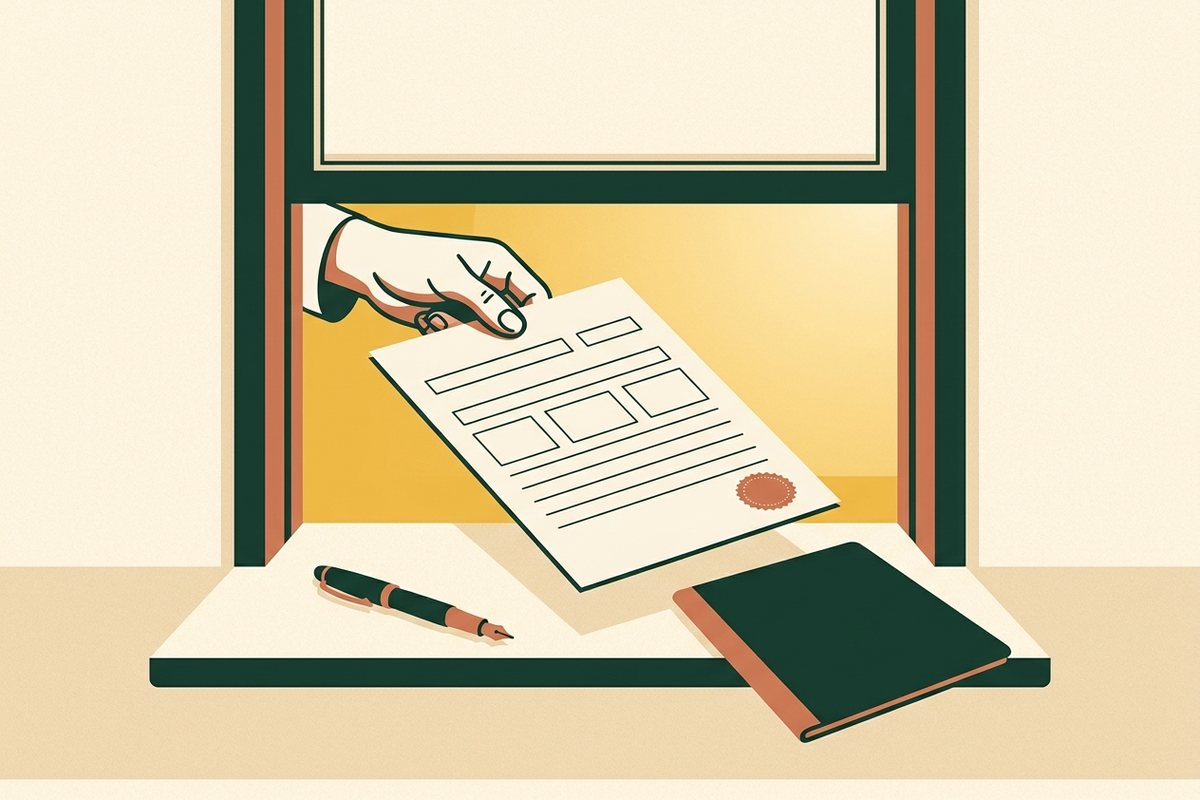
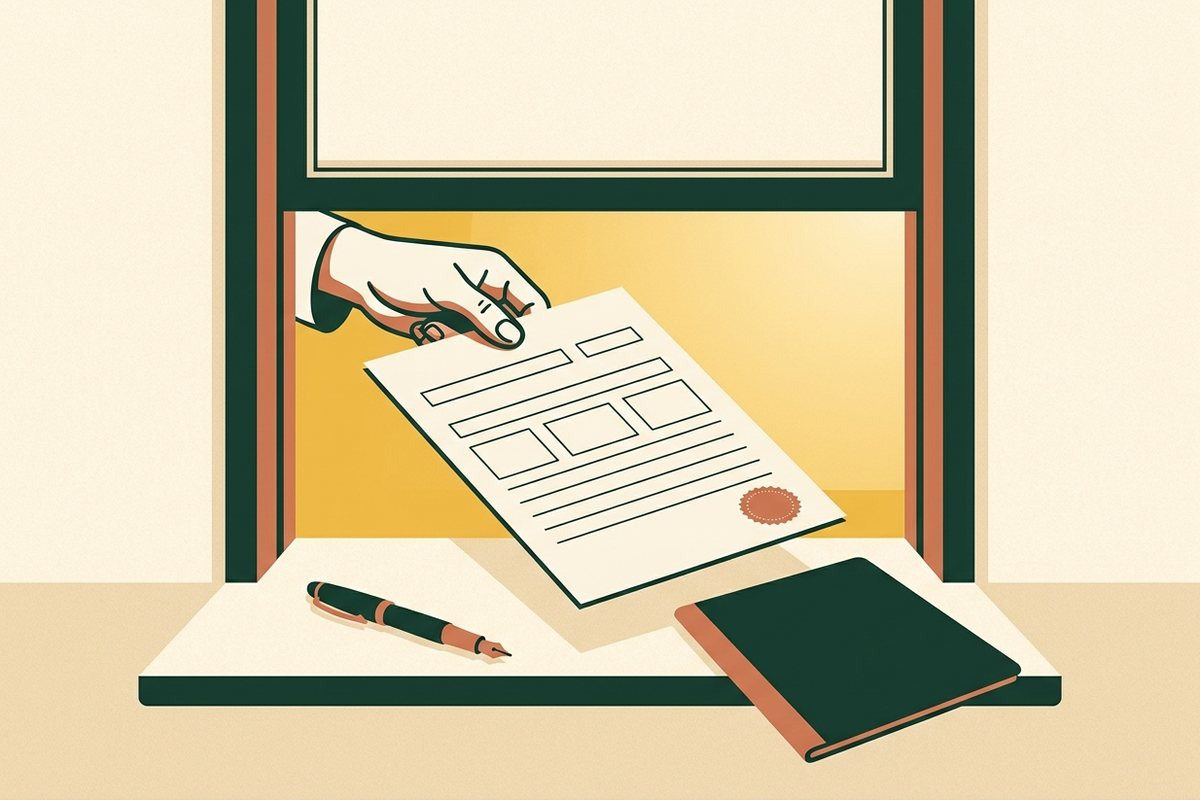
feat(articles): 新增《同一人声明公证》；配图脚本补边带自动裁切
第 11 篇。复核记录（本人独立打开原文核对）：
- Penal Code §126 伪证罪刑期"two, three or four years" —— 逐字属实
- Family Code §306.5 结婚证书核证副本即为改名合法证明 —— 逐字属实

配图脚本按 article-illustrations 的要求补上此前漏做的一步：成图前
自动裁掉模型留下的近乎纯色边带。全量扫描 36 张配图，此前只有
china-power-of-attorney/02 存在真实边框（底部淡色带与桌面之间有
明显阶跃），已重建。

同时修掉自己引入的一个 bug：裁掉边带后图可能比目标 3:2 更扁，
build_section 仍按高度裁会越界，PIL 补边而非缩放，在图底造出一条
纯黑像素带。改为按宽高比决定裁哪一维。现 36 张全部零边框。

Changed region(s): [[0.0, 0.0, 1.0, 1.0]]

diff --git a/src/content/articles/same-person-affidavit.md b/src/content/articles/same-person-affidavit.md
@@ -1,0 +1,143 @@
+---
+title: 同一人声明公证：中文名、拼音名、英文名对不上怎么办
+description: 国内机构要你证明"身份证上的张建国、护照上的 ZHANG JIANGUO、文件上的 John Zhang 是同一个人"。这份同一人声明是你自己在伪证责任下作出的宣誓声明，加州公证员办的是 jurat——主持宣誓、见证签署，而不核实你说的是否属实。这个区别，决定了这份文件该怎么写。
+pubDate: 2026-08-28
+category: china-use
+topicId: 11
+cover: /images/articles/same-person-affidavit/og.jpg
+coverAlt: 插图：一本翻开的护照、一张证件卡与一份带印记的证书叠放在一起，几条细线绕过它们汇向同一个点
+---
+
+国内不动产登记中心把材料退了回来，理由很简单：房产证上写的是"张建国"，委托书上签的是"John Zhang"，护照资料页印的是"ZHANG JIANGUO"。三个名字，一个人，但柜台看不出来。于是电话打到美国："你去做个'同一人声明'公证，证明这几个名字是同一个人。"
+
+这句话里藏着一个误解。美国这一端的公证员，并不会证明"这几个名字属于同一个人"。真正作出这个保证的是你自己，而且是在法律责任之下作出的。搞清楚这一点，这份文件该怎么写、写到什么程度，答案就出来了。
+
+## 什么情况下会被要求"同一人声明"
+
+![插图：四份不同的证件摊开成弧形，每一份的姓名栏都是一条空白横线，细线从各份证件汇聚到中间的同一个点](/images/articles/same-person-affidavit/01-many-names.jpg)
+
+"同一人声明"（One and the Same Person Affidavit，也写作 Affidavit of One and the Same Person）通常是国内受理机关在材料对不上时提出的要求：请你用一份书面声明，把几个不同写法的姓名，串成同一个人。它在加州这一端并不构成一种独立的公证种类——公证员替你办的，仍然是一份宣誓书的公证（下一节会讲清楚这意味着什么）。
+
+触发它的场景，翻来覆去就是这么几类：
+
+- **拼音名与英文名**。护照资料页上是 ZHANG JIANGUO，日常在美国用的是 John Zhang，银行账户、学历证书、房产文件上署的又是英文名。
+- **姓名顺序**。中国证件姓在前，美国证件名在前；有的表格把 given name 和 surname 填反了，从此两份文件"看上去是两个人"。
+- **婚后改姓**。在美国随夫姓，中国证件上仍是婚前姓名。
+- **曾用名**。小时候改过名、上学时用的是另一个名字、户口本上的名字与出国时的护照对不上。
+- **中间名**。入籍后加了中间名，或者把原来的名字整体挪到了中间名的位置。
+- **旧式拼写**。早年出境的证件上，姓氏可能拼作 Chang、Cheung、Lee，与今天护照上的汉语拼音 Zhang、Li 对不上。
+- **汉字与拉丁字母各说各话**。国内的房产证、存折、学籍档案上是汉字，美国的文件上只有拉丁字母，两边没有任何一处字面重合。
+
+有一件事必须先说在前面：这类材料在国内怎么处理、要什么格式，不动产登记中心、银行、社保经办机构、学校档案室的口径并不统一，同一家单位不同窗口也可能给出不同答复。所以第一步不是找公证员，而是问清楚受理你材料的那个机构——他们要的是一份什么样的声明、有没有现成模板、要几份、要不要中英文对照。中国驻旧金山总领馆在自己的公证须知里也是这么要求的：[申请人须按国内文书使用机构要求，准备好委托书或声明书等文本](#ref-sf-notary)。
+
+拿到对方的模板，后面每一步都会轻松很多；拿不到模板，至少要一份书面说明——哪怕是微信里的一段文字。
+
+## 这份文件，是谁在替什么担保
+
+![插图：一条细线把画面分成两半，左边是举起宣誓的手与一叠正文为空白横线的文件，右边是文件最后一页、别着回形针的另附纸页、一枚封蜡印记和一只橡皮印章](/images/articles/same-person-affidavit/02-who-vouches.jpg)
+
+这是全篇最要紧的一节。
+
+同一人声明在形式上是一份**宣誓书**（affidavit）：一段由你本人作出、并宣誓其属实的书面陈述。公证员在这份文件上办的是**宣誓书公证**（jurat）——主持宣誓、核验身份、见证你当场签署。（acknowledgment 与 jurat 的区别，[另一篇文章](/articles/acknowledgment-vs-jurat/)已经讲透，这里不重复。）
+
+[《加州政府法典》第 8202 条](#ref-gov-8202)把 jurat 的动作写得很短：公证员须[向宣誓人主持宣誓或郑重确认](#ref-gov-8202)，依《民法典》第 1185 条核验其身份，并且——[宣誓人须在公证员面前签署该文件](#ref-gov-8202)。
+
+这三件事里，没有哪一件是"核实文件里说的对不对"。恰恰相反，同一条法律要求 jurat 证词的顶端印着一个方框，框里写的是：[公证员仅核验签署该文件之个人的身份，而不核验该文件的真实性、准确性或有效性](#ref-gov-8202)（签名确认证词里的这句话[一字不差](#ref-civ-1189)）。加州州务卿的《Notary Public Handbook》说得更直白：公证员的[职能只关乎签名，与文件内容无关](#ref-handbook)。
+
+那么"张建国就是 John Zhang"这句话，究竟谁在担保？
+
+**你自己。**公证员会当场向你提问，手册给的示范措辞是["Do you swear or affirm that the statements in this document are true?"](#ref-handbook)（你是否宣誓或郑重确认，本文件中的陈述属实？）——手册还注明，宣誓时双方[传统上各举右手，但这不是法律要求](#ref-handbook)。你答"是"的那一刻起，这份声明的真实性由你承担。
+
+承担到什么程度？[《加州刑法典》第 118 条](#ref-pen-118)对伪证罪的定义是：宣誓之后，[明知不实而将重大事项陈述为真](#ref-pen-118)，即构成伪证；同一条还写明，无论该陈述是[在加州境内还是境外作出或签署](#ref-pen-118)，本款一律适用。[第 126 条](#ref-pen-126)给出后果：[伪证罪处二年、三年或四年监禁](#ref-pen-126)。刑期以年计，不是罚款了事的小事。
+
+把这层关系想明白，几种常见的糊涂做法自然就该放弃：
+
+- **不要把没把握的话写进去。**比如"本人除上述姓名外从未使用过其他姓名"——如果你自己都记不清小学学籍上写的是哪个名字，就别写这种绝对句。改成如实列举你确知的姓名版本，并写明各自出现在哪份证件上。
+- **不要指望公证员替你核对。**他不会翻你的旧护照去比对，也不会因为"看过你的绿卡"而为你的陈述背书。他核验的只是**到场这个人**的身份：[《民法典》第 1185 条](#ref-civ-1185)要求公证员取得充分身份证明，确认到场者[就是文件中所载并签署该文件的那个人](#ref-civ-1185)。
+- **不要请公证员帮你"写得像一点"。**措辞、格式、某一句写不写，都属于文件内容。州务卿手册把[准备、起草、选择或确定任何法律文件的种类，或就法律文件或事项提供意见](#ref-handbook)列为构成执业法律的行为，公证员应当拒绝并转介律师。
+
+这份声明的分量，来自它是你在伪证责任下作出的保证；它的软肋也在同一处——它终究是你的自述。所以接下来要谈的，是怎么把它写得足够具体，让接收方愿意相信。
+
+## 姓名版本列得够细，比写得漂亮有用
+
+![插图：桌面上摊开一张分成三行三列的表格纸，每行左侧是护照、卡片、证书的小图标，其余格子是空白横线，后面用夹子夹着几页复印件，一支钢笔斜放在纸角](/images/articles/same-person-affidavit/03-name-table.jpg)
+
+一份好用的同一人声明，正文往往很朴素：一段交代身份，一份姓名清单，一句"以上均系本人"。决定它好不好用的，是清单列得够不够细。
+
+**逐个姓名列，每个都配上出处。**至少写清三样：这个姓名的完整写法（照证件原样抄，包括全大写、逗号、中间名缩写、有没有空格）、它出现在哪一份证件或文件上（证件种类、签发机关、证件号码后几位）、以及使用的时间段或场景。
+
+结构上大致是这样（内容按你自己的实际情况填）：
+
+| 姓名写法 | 出现于 | 说明 |
+| --- | --- | --- |
+| 张建国 | 中国居民身份证、国内房产证 | 出生登记姓名 |
+| ZHANG JIANGUO | 中国护照资料页 | 汉语拼音转写 |
+| John Jianguo Zhang | 美国护照、加州驾照 | 归化后使用的姓名 |
+
+**照抄，不要顺手改。**证件上是 ZHANG JIANGUO，就别写成 Zhang Jianguo；护照上没有中间名，就别自己补一个。国内受理机关做的是字面比对，任何一处不一致，都可能让这份声明本身也变成"对不上"的材料。
+
+**附证件复印件时，注意三点。**
+
+第一，**复印件本身不能拿去公证**。加州公证员能核证的复印件只有授权委托书副本一种，其余一概不行——法律依据见[讲公证员职权边界的那一篇](/articles/what-notaries-cannot-do/)。所以复印件是**你作为附件附在声明后面**、并在正文里点名的（例如"附件一：本人中国护照资料页复印件"），不是拿去盖章的。
+
+第二，**把附件写进正文并编号**，注明总页数。声明里写明"附件共 3 页"，装订好一起寄出，接收方才好核对是否齐全。
+
+第三，**复印要清晰**：姓名栏、证件号、有效期都要看得清；护照建议资料页与本人签名页一起复印。
+
+**别提前签字。**jurat 要求你[在公证员面前签署](#ref-gov-8202)，所以带去现场的应该是签名栏留白的文件。中国驻旧金山总领馆办理领事公证时也是同一条规矩：文本[不可事先签名及填写日期](#ref-sf-notary)。
+
+**留意一条容易踩到的规定。**如果这份声明本身是用来证明你身份的文件，正文里写了出生日期或年龄，还贴了照片或按了指纹，那么[《加州政府法典》第 8230 条](#ref-gov-8230)要求公证员把一件事作为办理 jurat 的前提：请你出示凭据，[核对声明中所载的出生日期或年龄](#ref-gov-8230)。这一条认的凭据只有两种——出生证明的核证副本，或者加州车辆管理局（DMV）签发的驾照或身份证；中国护照不在其列。国内的模板有时正好要求贴照片、填出生日期，遇到这种，出门前把 DMV 证件一并带上，免得白跑。
+
+**语言。**国内要中英文对照的，可以做成双语文本；但公证证词那一段必须是英文——加州州务卿的说明是：[只要公证部分是英文，就可以签发附加证明书，文件其余部分可以是任何其他语言](#ref-sos-faq)。
+
+## 公证只是半程：还要办附加证明书
+
+一份只盖了加州公证章的声明，寄回国内多半用不了。要让中国的机构认，还得请加州州务卿签发**附加证明书**（Apostille）：州务卿[对加州公职人员在拟送往美国境外使用的文件上的签名进行认证](#ref-sos-apostille)。怎么寄、多少钱、封面页怎么填，[讲授权委托书那篇](/articles/china-power-of-attorney/)已经写全，这里不重复。
+
+只强调两件与本文主题直接相关的事。
+
+**这一步同样不担保内容。**州务卿自己的问答里写着：[附加证明书不核实文件的内容](#ref-sos-faq)。所以整条链上——公证员、州务卿——没有任何一方在替"这几个名字属于同一个人"背书。从头到尾，担保人只有你。
+
+**办妥不等于一定被接受。**中国驻旧金山总领馆的通知里有一句提醒很实在：[办妥美国附加证明书不代表该公文书必然被中国用文单位接受](#ref-sf-notice)，并[建议事先向中国用文单位了解其对格式、内容、时限、翻译等的具体要求](#ref-sf-notice)。这句话对同一人声明尤其适用——格式和内容的标准，握在对方手里。
+
+## 有时候，你需要的不是一份声明
+
+在花钱办这份文件之前，值得先花十分钟想一想：能不能让**一份官方证件本身**同时载明两个名字？如果能，它通常比一份自述声明更容易被接受。
+
+**中国护照上的姓名加注。**中国驻旧金山总领馆办理["普通护照/旅行证姓名加注"](#ref-sf-passport)，适用于[有正当合理合法理由需要在护照或旅行证上加注姓名的人员](#ref-sf-passport)，需提交[出生证、结婚证、居留证等涉及加注姓名，且在当地具有法律效力的文件](#ref-sf-passport)。如果你持中国护照，又因为结婚或改名多出了另一个姓名，先问一句能不能加注——加注印在护照上，本身就是一份官方证件对两个名字的连接。能不能加、加什么，以总领馆的答复为准。
+
+**婚后改姓。**在加州，结婚时就可以在结婚证申请表上直接选定婚后使用的中名或姓氏。[《加州家庭法典》第 306.5 条](#ref-fam-306-5)允许[婚姻一方或双方选择变更中名或姓氏](#ref-fam-306-5)，并规定[载有新姓名的结婚证书核证副本，即构成使用该新姓名合法的证明](#ref-fam-306-5)。也就是说，改姓这件事，一份结婚证书核证副本往往就说明白了。
+
+**在美国正式改过名。**加州法院的官方自助指南写得很清楚：[向法院提交文件可以合法改名](#ref-courts-name-change)，法官同意后会出具载明新姓名的法院命令，[你需要用这份命令去更新驾照、护照、社安卡等身份文件](#ref-courts-name-change)。一份法院命令在很多场合比自述声明有力。但要算好时间和成本：[申请费 435 至 450 美元](#ref-courts-name-change)、须[在报纸上刊登一个月](#ref-courts-name-change)、法官[约两到三个月](#ref-courts-name-change)作出决定——急着用的事等不了它。
+
+这三条不是互相替代，而是排查顺序：先看有没有现成的官方文件能说明问题，实在没有，再用声明书把话讲清楚。
+
+## 去公证之前，把这几件事办好
+
+1. **拿到接收方的要求**。模板、份数、要不要中英文、要不要贴照片、有没有时效限制——问清楚再动笔。
+2. **列全姓名版本，逐字核对拼写**。照证件抄，别凭记忆。
+3. **准备附件**。复印清晰、编号、写进正文、注明页数。
+4. **签名栏留白**。jurat 必须当场签，提前签了通常只能重打一份。
+5. **带齐证件**。[《民法典》第 1185 条](#ref-civ-1185)列明的可接受证件包括加州驾照或身份证、美国护照，以及本国有效护照——持中国护照可以办。若声明里含出生日期加照片或指纹，按第 8230 条再带上 DMV 证件或出生证明核证副本。
+6. **想好附加证明书那一步**。封面页的使用国别填 China，需要几份就办几份。
+
+最后说明一句：本文讲的是这份文件在美国这一端的办理规则，不构成法律意见。声明里写什么、怎么写、能不能满足国内那家机构的要求，得由你和接收方（必要时再加上律师）来定。公证员能做的，是在你把话写好之后，主持你的宣誓、看着你签字，并如实记下这件事发生的时间、地点与身份核验方式。
+
+## 参考来源
+
+以下来源均于引用当日打开核对；条目中的"查证于"日期为实际核对日期，可点击的日期指向互联网档案馆（Wayback Machine）当时的存档快照。
+
+- <span id="ref-gov-8202"></span>加州《政府法典》第 8202 条（jurat 的法定要求与格式）— [leginfo 法条原文](https://leginfo.legislature.ca.gov/faces/codes_displaySection.xhtml?lawCode=GOV&sectionNum=8202#:~:text=The%20affiant%20shall%20sign%20the%20document%20in%20the%20presence%20of%20the%20notary)。第 (a) 款："When executing a jurat, a notary shall [administer an oath or affirmation to the affiant](https://leginfo.legislature.ca.gov/faces/codes_displaySection.xhtml?lawCode=GOV&sectionNum=8202#:~:text=administer%20an%20oath%20or%20affirmation%20to%20the%20affiant) and shall determine, from satisfactory evidence as described in Section 1185 of the Civil Code, that the affiant is the person executing the document. The affiant shall sign the document in the presence of the notary."；第 (b) 款方框提示："A notary public or other officer completing this certificate verifies only the identity of the individual who signed the document to which this certificate is attached, and [not the truthfulness, accuracy, or validity of that document](https://leginfo.legislature.ca.gov/faces/codes_displaySection.xhtml?lawCode=GOV&sectionNum=8202#:~:text=not%20the%20truthfulness%2C%20accuracy%2C%20or%20validity%20of%20that%20document)."；第 (d) 款法定格式以 "Subscribed and sworn to (or affirmed) before me" 开头。 — 查证于 [2026-08-28](https://web.archive.org/web/20260214102928/https://leginfo.legislature.ca.gov/faces/codes_displaySection.xhtml?lawCode=GOV&sectionNum=8202)
+- <span id="ref-civ-1189"></span>加州《民法典》第 1189 条（签名确认证词法定格式）— [leginfo 法条原文](https://leginfo.legislature.ca.gov/faces/codes_displaySection.xhtml?lawCode=CIV&sectionNum=1189#:~:text=verifies%20only%20the%20identity%20of%20the%20individual%20who%20signed%20the%20document%20to%20which%20this%20certificate%20is%20attached)。第 (a)(1) 款要求证词顶端方框内载明的文字，与《政府法典》第 8202 条第 (b) 款完全相同："A notary public or other officer completing this certificate verifies only the identity of the individual who signed the document to which this certificate is attached, and not the truthfulness, accuracy, or validity of that document." — 查证于 [2026-08-28](https://web.archive.org/web/20260214013704/https://leginfo.legislature.ca.gov/faces/codes_displaySection.xhtml?lawCode=CIV&sectionNum=1189)
+- <span id="ref-civ-1185"></span>加州《民法典》第 1185 条（身份核验与可接受证件）— [leginfo 法条原文](https://leginfo.legislature.ca.gov/faces/codes_displaySection.xhtml?lawCode=CIV&sectionNum=1185#:~:text=The%20acknowledgment%20of%20an%20instrument%20shall%20not%20be%20taken%20unless)。第 (a) 款："The acknowledgment of an instrument shall not be taken unless the officer taking it has satisfactory evidence that the person making the acknowledgment [is the individual who is described in and who executed the instrument](https://leginfo.legislature.ca.gov/faces/codes_displaySection.xhtml?lawCode=CIV&sectionNum=1185#:~:text=is%20the%20individual%20who%20is%20described%20in%20and%20who%20executed%20the%20instrument)."；第 (b)(3)、(b)(4) 款以 "any one of the following" 形式逐项列举可接受证件，含加州 DMV 驾照或身份证、美国护照，以及"[a valid passport from the applicant's country of citizenship](https://leginfo.legislature.ca.gov/faces/codes_displaySection.xhtml?lawCode=CIV&sectionNum=1185#:~:text=or%20a%20valid%20passport%20from%20the%20applicant)"。 — 查证于 [2026-08-28](https://web.archive.org/web/20251206062031/https://leginfo.legislature.ca.gov/faces/codes_displaySection.xhtml?lawCode=CIV&sectionNum=1185)
+- <span id="ref-pen-118"></span>加州《刑法典》第 118 条（伪证罪的定义）— [leginfo 法条原文](https://leginfo.legislature.ca.gov/faces/codes_displaySection.xhtml?lawCode=PEN&sectionNum=118#:~:text=states%20as%20true%20any%20material%20matter%20which%20he%20or%20she%20knows%20to%20be%20false)。第 (a) 款："Every person who, having taken an oath that he or she will testify, declare, depose, or certify truly… willfully and contrary to the oath, states as true any material matter which he or she knows to be false… is guilty of perjury."；同款末句："This subdivision is applicable whether the statement, or the testimony, declaration, deposition, or certification is [made or subscribed within or without the State of California](https://leginfo.legislature.ca.gov/faces/codes_displaySection.xhtml?lawCode=PEN&sectionNum=118#:~:text=made%20or%20subscribed%20within%20or%20without%20the%20State%20of%20California)." — 查证于 [2026-08-28](https://web.archive.org/web/20251218131453/https://leginfo.legislature.ca.gov/faces/codes_displaySection.xhtml?lawCode=PEN&sectionNum=118)
+- <span id="ref-pen-126"></span>加州《刑法典》第 126 条（伪证罪的刑罚）— [leginfo 法条原文](https://leginfo.legislature.ca.gov/faces/codes_displaySection.xhtml?lawCode=PEN&sectionNum=126#:~:text=Perjury%20is%20punishable%20by%20imprisonment)。全文："Perjury is punishable by imprisonment pursuant to subdivision (h) of Section 1170 for [two, three or four years](https://leginfo.legislature.ca.gov/faces/codes_displaySection.xhtml?lawCode=PEN&sectionNum=126#:~:text=two%2C%20three%20or%20four%20years)." — 查证于 [2026-08-28](https://web.archive.org/web/20251215210511/https://leginfo.legislature.ca.gov/faces/codes_displaySection.xhtml?sectionNum=126&lawCode=PEN)
+- <span id="ref-gov-8230"></span>加州《政府法典》第 8230 条（宣誓人身份文件中的出生日期核对）— [leginfo 法条原文](https://leginfo.legislature.ca.gov/faces/codes_displaySection.xhtml?lawCode=GOV&sectionNum=8230#:~:text=purporting%20to%20identify%20the%20affiant)。全文首句："If a notary public executes a jurat and the statement sworn or subscribed to is contained in a document purporting to identify the affiant, and includes the birthdate or age of the person and a purported photograph or finger or thumbprint of the person so swearing or subscribing, the notary public shall require, as a condition to executing the jurat, that the person [verify the birthdate or age contained in the statement](https://leginfo.legislature.ca.gov/faces/codes_displaySection.xhtml?lawCode=GOV&sectionNum=8230#:~:text=verify%20the%20birthdate%20or%20age%20contained%20in%20the%20statement) by showing either:"；随后列出 "(a) A certified copy of the person's birth certificate, or (b) An identification card or driver's license issued by the Department of Motor Vehicles." — 查证于 [2026-08-28](https://web.archive.org/web/20251208123339/https://leginfo.legislature.ca.gov/faces/codes_displaySection.xhtml?sectionNum=8230&lawCode=GOV)
+- <span id="ref-handbook"></span>加州州务卿《Notary Public Handbook》2026 年版（2026 年 1 月）— [PDF 全文](https://notary.cdn.sos.ca.gov/forms/notary-handbook-current.pdf)（[各年度版本索引页](https://www.sos.ca.gov/notary/handbook)）。第 8 页 "Acts Constituting the Practice of Law"："Among the acts which constitute the practice of law are the preparation, drafting, or selection or determination of the kind of any legal document, or giving advice in relation to any legal documents or matters. If asked to perform such tasks, a California notary public should decline and refer the requester to an attorney."；第 14 页 jurat 一节的脚注："There is no prescribed wording for the oath, but an acceptable oath would be 'Do you swear or affirm that the statements in this document are true?' When administering the oath, the signer and notary public traditionally each raise their right hand, but this is not a legal requirement."；第 23 页 "Foreign Language" 一节："A notary public can notarize a signature on a document in a foreign language with which the notary public is not familiar, since a notary public's function only relates to the signature and not the content of the document."；同页："An interpreter should not be used, as vital information could be lost in the translation." — 查证于 [2026-08-28](https://web.archive.org/web/20260806194157/https://notary.cdn.sos.ca.gov/forms/notary-handbook-current.pdf)
+- <span id="ref-sos-apostille"></span>加州州务卿 — [Request an Apostille 官方办理页](https://www.sos.ca.gov/notary/request-apostille#:~:text=provides%20an%20Apostille%20to%20authenticate%20California%20public%20officials)。支持句："The California Secretary of State provides an Apostille to authenticate California public officials' signatures on documents to be used outside the United States of America."；另有 "The document must be signed by a California public official or be an original notarized and/or certified document. [A photocopy is not acceptable.](https://www.sos.ca.gov/notary/request-apostille#:~:text=A%20photocopy%20is%20not%20acceptable)" 与 "A cover sheet [stating the country in which the document will be used is required](https://www.sos.ca.gov/notary/request-apostille#:~:text=stating%20the%20country%20in%20which%20the%20document%20will%20be%20used%20is%20required)."。 — 查证于 [2026-08-28](https://web.archive.org/web/20260606205228/https://www.sos.ca.gov/notary/request-apostille)
+- <span id="ref-sos-faq"></span>加州州务卿 — [Apostille Frequently Asked Questions](https://www.sos.ca.gov/notary/apostille-faqs#:~:text=validate%20the%20contents%20of%20the%20document)。支持句：第 1 问 "The Apostille does not validate the contents of the document."；第 10 问 "[If the notarization of the document is in English, the California Secretary of State can issue an Apostille. The rest of the document can be in any other language.](https://www.sos.ca.gov/notary/apostille-faqs#:~:text=If%20the%20notarization%20of%20the%20document%20is%20in%20English%2C%20the%20California%20Secretary%20of%20State%20can%20issue%20an%20Apostille.%20The%20rest%20of%20the%20document%20can%20be%20in%20any%20other%20language.)" — 查证于 [2026-08-28](https://web.archive.org/web/20260611010913/https://www.sos.ca.gov/notary/apostille-faqs)
+- <span id="ref-sf-notice"></span>中国驻旧金山总领馆 — [《关于中国加入〈取消外国公文书认证要求的公约〉后驻美使领馆停办领事认证业务的通知》](https://sanfrancisco.china-consulate.gov.cn/chn/zytz/202310/t20231025_11167637.htm#:~:text=%E5%8A%9E%E5%A6%A5%E7%BE%8E%E5%9B%BD%E9%99%84%E5%8A%A0%E8%AF%81%E6%98%8E%E4%B9%A6%E4%B8%8D%E4%BB%A3%E8%A1%A8%E8%AF%A5%E5%85%AC%E6%96%87%E4%B9%A6%E5%BF%85%E7%84%B6%E8%A2%AB%E4%B8%AD%E5%9B%BD%E7%94%A8%E6%96%87%E5%8D%95%E4%BD%8D%E6%8E%A5%E5%8F%97)（2023 年 10 月 24 日发布）。支持句："美国签发的《公约》范围内的公文书只需办理美国附加证明书（Apostille）即可送往中国内地使用"；"办妥美国附加证明书不代表该公文书必然被中国用文单位接受。[建议您事先向中国用文单位了解其对外国公文书的格式、内容、时限、翻译等具体要求](https://sanfrancisco.china-consulate.gov.cn/chn/zytz/202310/t20231025_11167637.htm#:~:text=%E5%BB%BA%E8%AE%AE%E6%82%A8%E4%BA%8B%E5%85%88%E5%90%91%E4%B8%AD%E5%9B%BD%E7%94%A8%E6%96%87%E5%8D%95%E4%BD%8D%E4%BA%86%E8%A7%A3%E5%85%B6%E5%AF%B9%E5%A4%96%E5%9B%BD%E5%85%AC%E6%96%87%E4%B9%A6%E7%9A%84%E6%A0%BC%E5%BC%8F%E3%80%81%E5%86%85%E5%AE%B9%E3%80%81%E6%97%B6%E9%99%90%E3%80%81%E7%BF%BB%E8%AF%91%E7%AD%89%E5%85%B7%E4%BD%93%E8%A6%81%E6%B1%82)后再办理有关手续。" — 查证于 [2026-08-28](https://web.archive.org/web/20260828052601/https://sanfrancisco.china-consulate.gov.cn/chn/zytz/202310/t20231025_11167637.htm)
+- <span id="ref-sf-notary"></span>中国驻旧金山总领馆 — [《申办公证须知（2025 年 10 月更新）》](https://sanfrancisco.china-consulate.gov.cn/lsfw/qianzhen/gz/202510/t20251028_11742048.htm#:~:text=%E7%94%B3%E8%AF%B7%E4%BA%BA%E9%A1%BB%E6%8C%89%E5%9B%BD%E5%86%85%E6%96%87%E4%B9%A6%E4%BD%BF%E7%94%A8%E6%9C%BA%E6%9E%84%E8%A6%81%E6%B1%82%EF%BC%8C%E5%87%86%E5%A4%87%E5%A5%BD%E5%A7%94%E6%89%98%E4%B9%A6%E6%88%96%E5%A3%B0%E6%98%8E%E4%B9%A6%E7%AD%89%E6%96%87%E6%9C%AC)。支持句："申请人须按国内文书使用机构要求，准备好委托书或声明书等文本。有关文本需打印或清晰书写、不得涂改，[不可事先签名及填写日期](https://sanfrancisco.china-consulate.gov.cn/lsfw/qianzhen/gz/202510/t20251028_11742048.htm#:~:text=%E4%B8%8D%E5%8F%AF%E4%BA%8B%E5%85%88%E7%AD%BE%E5%90%8D%E5%8F%8A%E5%A1%AB%E5%86%99%E6%97%A5%E6%9C%9F)。"（该页公证种类中列有声明书公证，但未涉及姓名不一致或同一人事项。） — 查证于 2026-08-28（互联网档案馆无该页存档）
+- <span id="ref-sf-passport"></span>中国驻旧金山总领馆 — [《普通护照/旅行证换发》办事指南](https://sanfrancisco.china-consulate.gov.cn/lsfw/qianzhen/fzlxz/202501/t20250127_11546309.htm#:~:text=%E6%99%AE%E9%80%9A%E6%8A%A4%E7%85%A7%2F%E6%97%85%E8%A1%8C%E8%AF%81%E5%A7%93%E5%90%8D%E5%8A%A0%E6%B3%A8)（2025 年 1 月 27 日）。"普通护照/旅行证姓名加注"一节，支持句："一、适用人员：[有正当合理合法理由需要在护照或旅行证上加注姓名的人员](https://sanfrancisco.china-consulate.gov.cn/lsfw/qianzhen/fzlxz/202501/t20250127_11546309.htm#:~:text=%E6%9C%89%E6%AD%A3%E5%BD%93%E5%90%88%E7%90%86%E5%90%88%E6%B3%95%E7%90%86%E7%94%B1%E9%9C%80%E8%A6%81%E5%9C%A8%E6%8A%A4%E7%85%A7%E6%88%96%E6%97%85%E8%A1%8C%E8%AF%81%E4%B8%8A%E5%8A%A0%E6%B3%A8%E5%A7%93%E5%90%8D%E7%9A%84%E4%BA%BA%E5%91%98)。"；所需材料含"（三）[出生证、结婚证、居留证等涉及加注姓名，且在当地具有法律效力的文件](https://sanfrancisco.china-consulate.gov.cn/lsfw/qianzhen/fzlxz/202501/t20250127_11546309.htm#:~:text=%E5%87%BA%E7%94%9F%E8%AF%81%E3%80%81%E7%BB%93%E5%A9%9A%E8%AF%81%E3%80%81%E5%B1%85%E7%95%99%E8%AF%81%E7%AD%89%E6%B6%89%E5%8F%8A%E5%8A%A0%E6%B3%A8%E5%A7%93%E5%90%8D%EF%BC%8C%E4%B8%94%E5%9C%A8%E5%BD%93%E5%9C%B0%E5%85%B7%E6%9C%89%E6%B3%95%E5%BE%8B%E6%95%88%E5%8A%9B%E7%9A%84%E6%96%87%E4%BB%B6)"。 — 查证于 [2026-08-28](https://web.archive.org/web/20250321012450/http://sanfrancisco.china-consulate.gov.cn/lsfw/qianzhen/fzlxz/202501/t20250127_11546309.htm)
+- <span id="ref-fam-306-5"></span>加州《家庭法典》第 306.5 条（结婚时选定姓名）— [leginfo 法条原文](https://leginfo.legislature.ca.gov/faces/codes_displaySection.xhtml?lawCode=FAM&sectionNum=306.5#:~:text=may%20elect%20to%20change%20the%20middle%20or%20last%20names)。支持句："One party or both parties to a marriage may elect to change the middle or last names, or both, by which that party wishes to be known after solemnization of the marriage by entering the new name in the spaces provided on the marriage license application without intent to defraud."；"[A certified copy of a marriage certificate containing the new name, or retaining the former name, shall constitute proof that the use of the new name or retention of the former name is lawful.](https://leginfo.legislature.ca.gov/faces/codes_displaySection.xhtml?lawCode=FAM&sectionNum=306.5#:~:text=shall%20constitute%20proof%20that%20the%20use%20of%20the%20new%20name)" — 查证于 [2026-08-28](https://web.archive.org/web/20250430144448/https://leginfo.legislature.ca.gov/faces/codes_displaySection.xhtml?lawCode=FAM&sectionNum=306.5)
+- <span id="ref-courts-name-change"></span>加州法院官方自助指南（California Courts Self Help Guide）— [Change your name in California](https://selfhelp.courts.ca.gov/name-change#:~:text=You%20can%20legally%20change%20your%20name%20by%20filing%20papers%20in%20court)。支持句："You can legally change your name by filing papers in court. If a judge agrees, they will give you a court order that states your new legal name. [You need this order to change your name on identity documents, like your driver's license, passport, or social security card.](https://selfhelp.courts.ca.gov/name-change#:~:text=You%20need%20this%20order%20to%20change%20your%20name%20on%20identity%20documents)"；"[You pay a $435-$450 filing fee.](https://selfhelp.courts.ca.gov/name-change#:~:text=%24435%2D%24450)"；"Before a judge can decide, you must have the forms [published in a newspaper for one month](https://selfhelp.courts.ca.gov/name-change#:~:text=in%20a%20newspaper%20for%20one%20month)."；"[A judge will make a decision in about 2 to 3 months](https://selfhelp.courts.ca.gov/name-change#:~:text=A%20judge%20will%20make%20a%20decision%20in%20about%202%20to%203%20months)" — 查证于 [2026-08-28](https://web.archive.org/web/20260827230317/https://selfhelp.courts.ca.gov/name-change)
